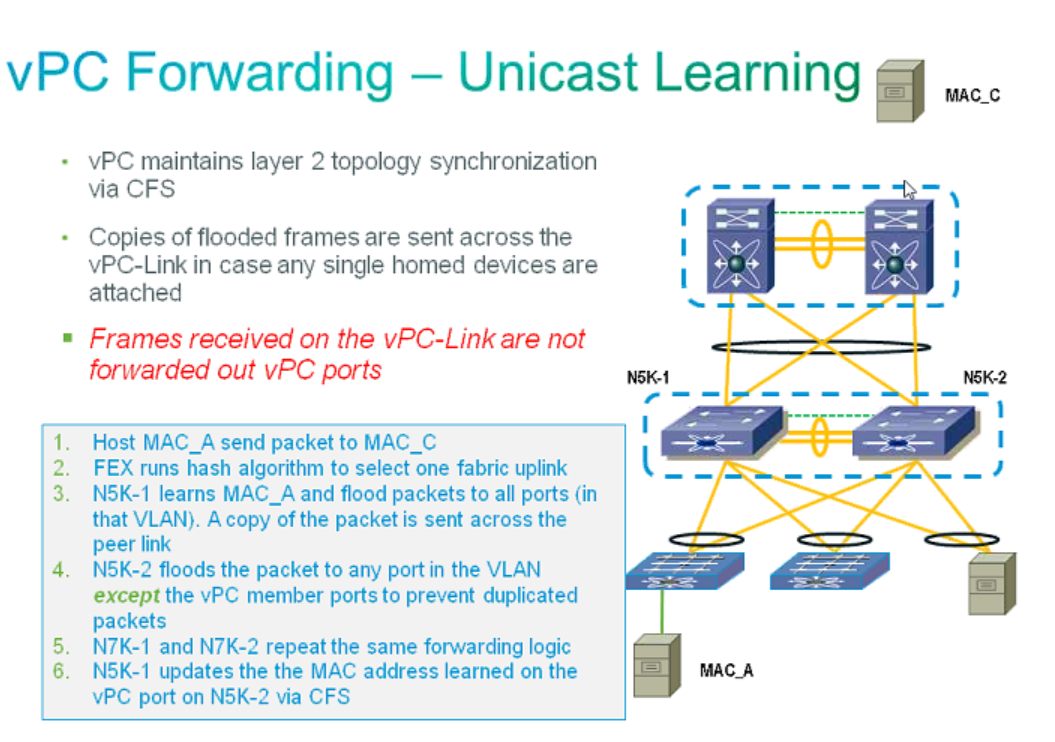
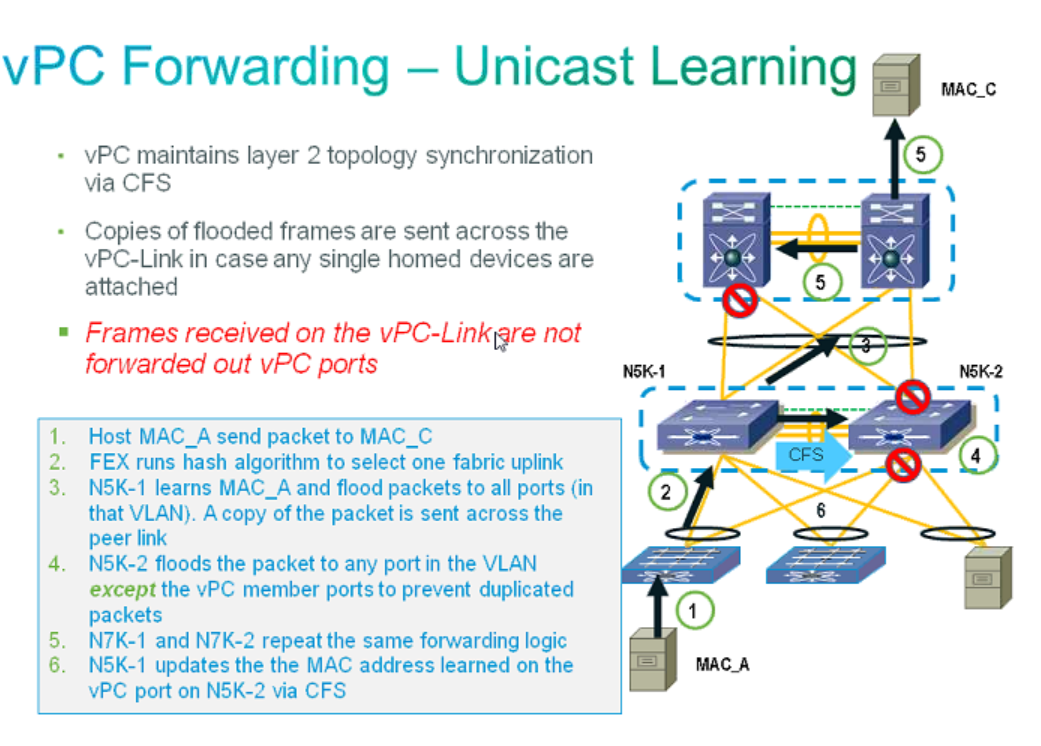
adding images

Changed region(s): [[0.0, 0.062, 0.9837, 0.9919], [0.0615, 0.186, 0.5841, 0.527]]

diff --git a/vPC/vpc.md b/vPC/vpc.md
@@ -203,7 +203,7 @@ sh vpc consistency-parameters global
 	- The local vPC port if it was learned on an vPC port oh the peer switch
 	- The Peer-link port if it was learned on a non vPC port (Orphan Port)
 ### Rule Number 2
-???
+![image](./images/vpc_forwarding_rule2.PNG)
 
 ### Unicast Learning
 - vPC maintains layer 2 topology synchronization via CFS.
@@ -211,4 +211,5 @@ sh vpc consistency-parameters global
 - Frames recived on the vPC-Link are not forwarded out vPC ports.
 
 ![image](./images/vpc_forwarding_unicast_learning.PNG)
+![image](./images/vpc_forwarding_unicast_learning2.PNG)
 
